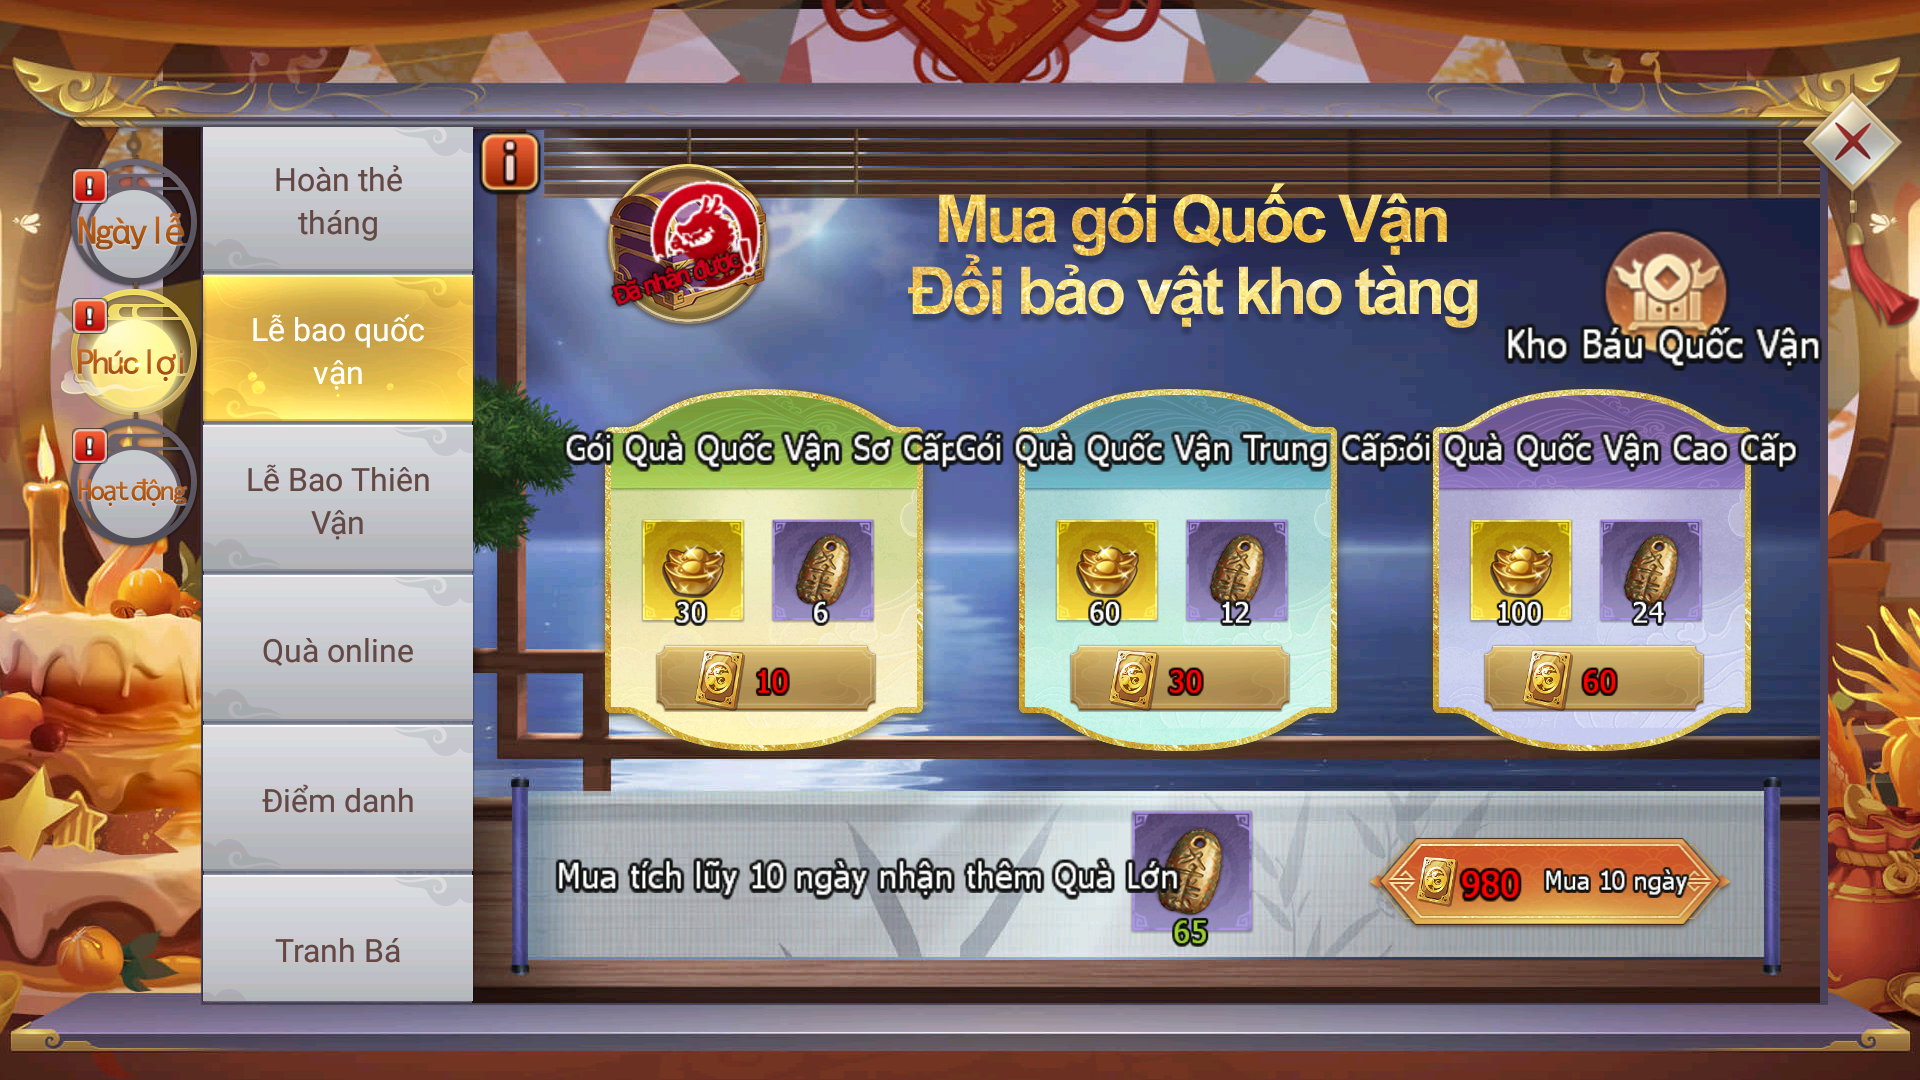
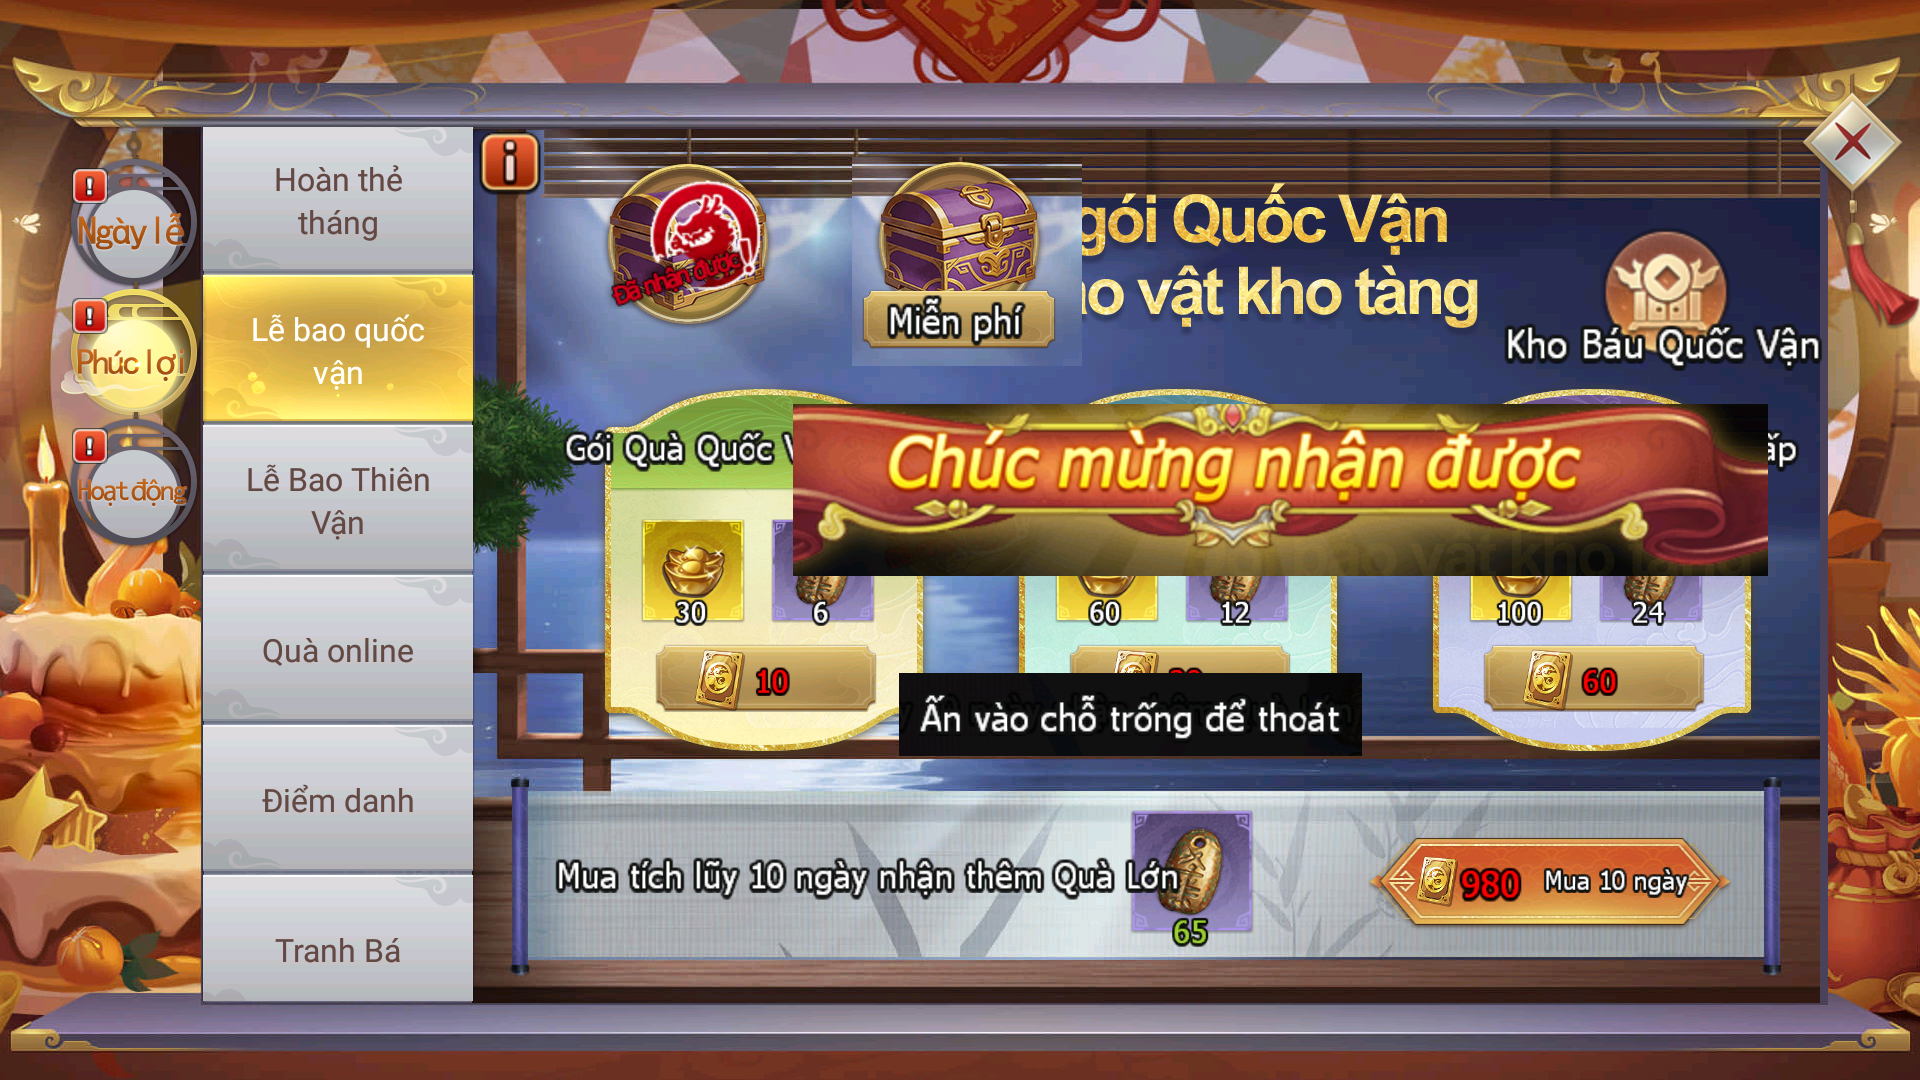
atr fix le_bao_quoc_van

Changed region(s): [[0.4062, 0.3667, 0.9375, 0.55], [0.4375, 0.1222, 0.5625, 0.3361], [0.4688, 0.6111, 0.7188, 0.7028]]

diff --git a/dctq_auto/config/constants.py b/dctq_auto/config/constants.py
@@ -149,5 +149,7 @@ _TEMPLATE_NGAY_CAN_DIEM_DANH = "hoat_dong/ngay_can_diem_danh"
 _TEMPLATE_XAC_NHAN_DIEM_DANH_BU = "hoat_dong/xac_nhan_diem_danh_bu"
 
 # Template dùng bên trong tác vụ nhận lễ bao Quốc Vận.
-_TEMPLATE_NHAN_LE_BAO_MIEN_PHI = "hoat_dong/nhan_le_bao_mien_phi"
-_TEMPLATE_DA_NHAN_LE_BAO_MIEN_PHI = "hoat_dong/da_nhan_le_bao_mien_phi"
+_TEMPLATE_NHAN_LE_BAO_MIEN_PHI = "hoat_dong.phuc_loi.le_bao_quoc_van/chua_nhan_le_bao_mien_phi"
+_TEMPLATE_DA_NHAN_LE_BAO_MIEN_PHI = "hoat_dong.phuc_loi.le_bao_quoc_van/da_nhan_le_bao_mien_phi"
+_TEMPLATE_TAT_THONG_BAO_NHAN_LE_BAO_MIEN_PHI1 = "hoat_dong.phuc_loi.le_bao_quoc_van/tat_thong_bao_nhan_le_bao1"
+_TEMPLATE_TAT_THONG_BAO_NHAN_LE_BAO_MIEN_PHI2 = "hoat_dong.phuc_loi.le_bao_quoc_van/tat_thong_bao_nhan_le_bao2"

diff --git a/dctq_auto/tasks/common/activity/perk/task_le_bao_quoc_van.py b/dctq_auto/tasks/common/activity/perk/task_le_bao_quoc_van.py
@@ -8,6 +8,8 @@ import numpy as np
 from dctq_auto.config.constants import (
     _TEMPLATE_DA_NHAN_LE_BAO_MIEN_PHI,
     _TEMPLATE_NHAN_LE_BAO_MIEN_PHI,
+    _TEMPLATE_TAT_THONG_BAO_NHAN_LE_BAO_MIEN_PHI1,
+    _TEMPLATE_TAT_THONG_BAO_NHAN_LE_BAO_MIEN_PHI2,
 )
 
 from dctq_auto.vision.template_matching import match_template
@@ -18,6 +20,8 @@ from dctq_auto.vision.template_store import get_templates
 _TEMPLATE_NAMES = (
     _TEMPLATE_NHAN_LE_BAO_MIEN_PHI,
     _TEMPLATE_DA_NHAN_LE_BAO_MIEN_PHI,
+    _TEMPLATE_TAT_THONG_BAO_NHAN_LE_BAO_MIEN_PHI1,
+    _TEMPLATE_TAT_THONG_BAO_NHAN_LE_BAO_MIEN_PHI2,
 )
 
 
